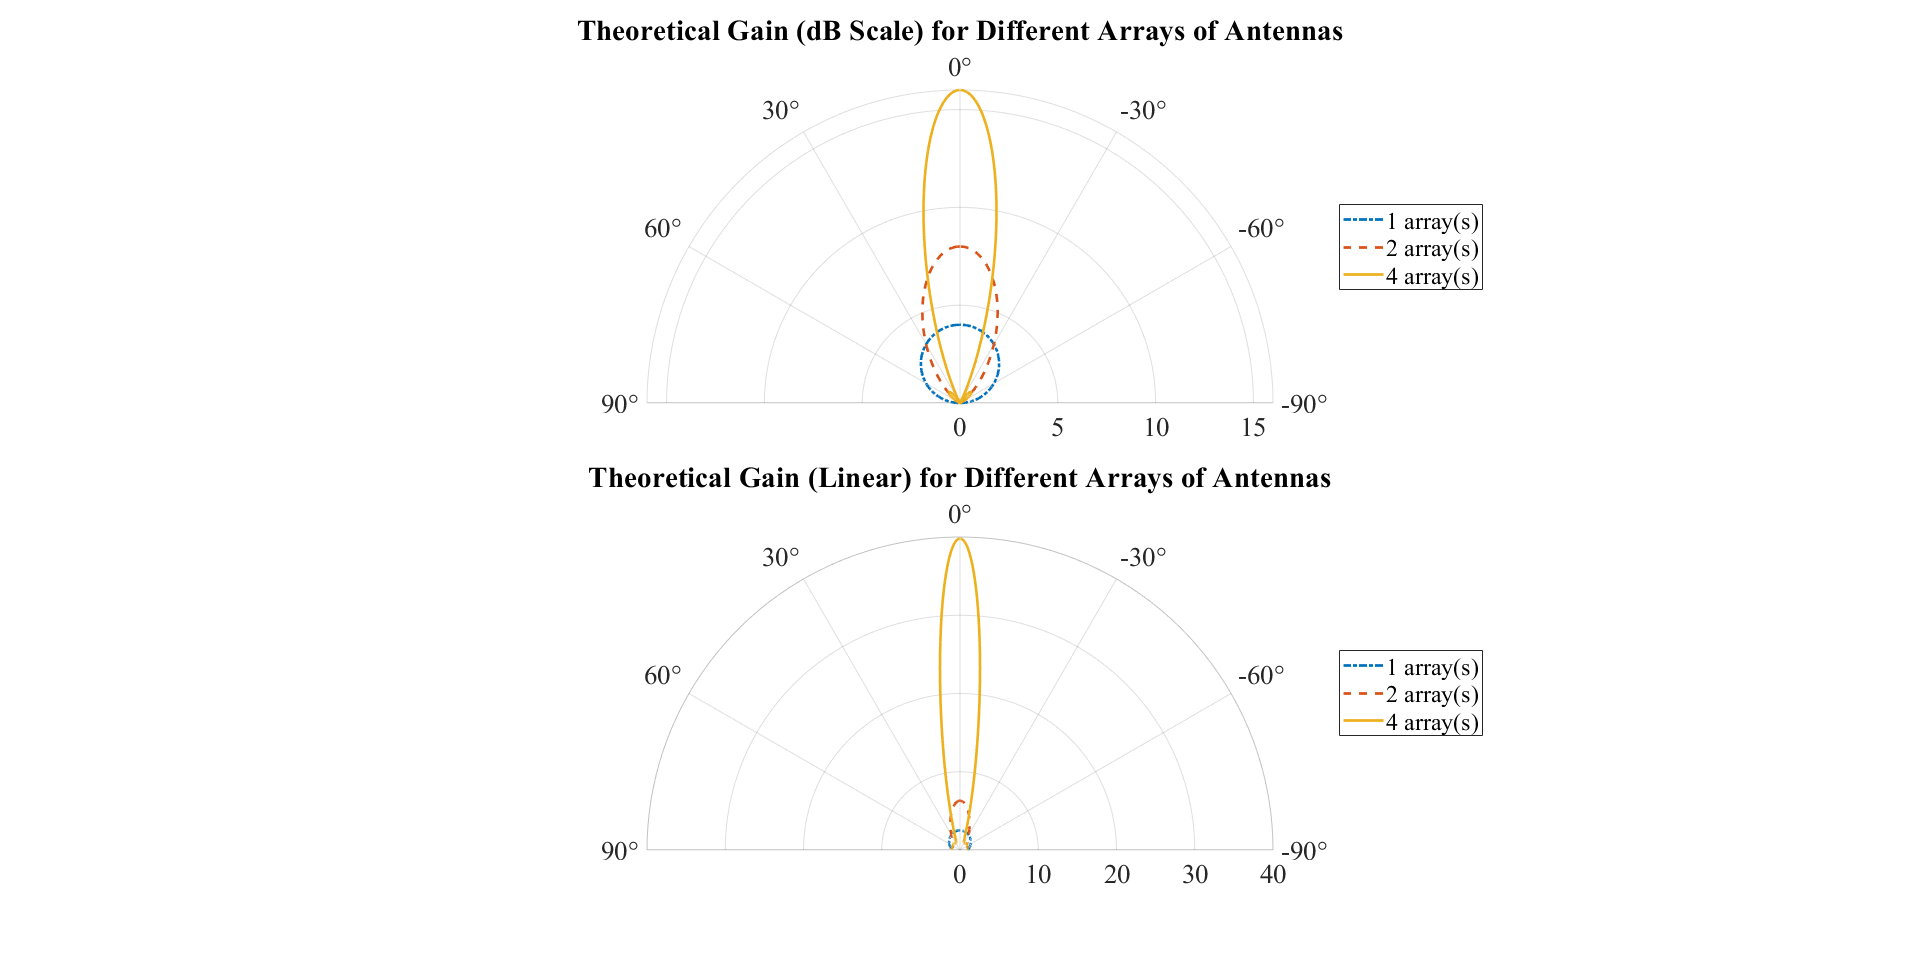
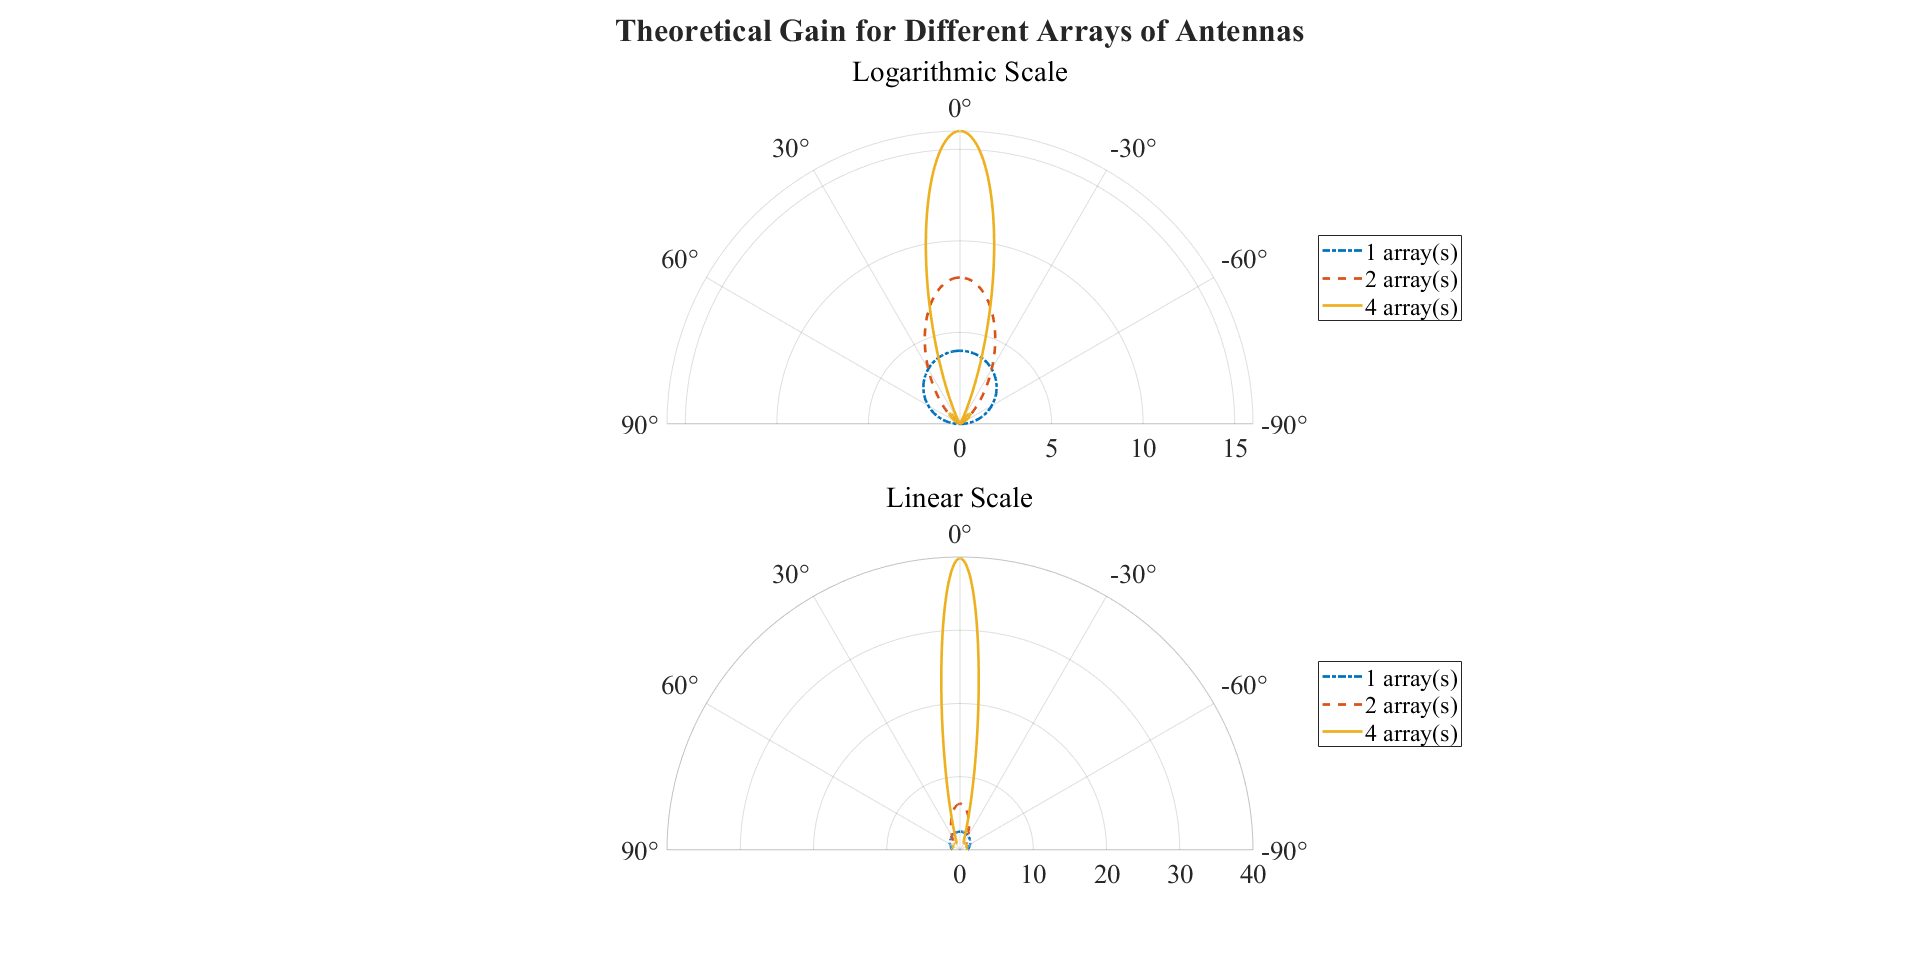
helper for beam pattern, powerof2 validator inputs arrays

diff --git a/beam_gain_pattern.m b/beam_gain_pattern.m
@@ -1,5 +1,5 @@
 function beam_gain_pattern()
-% beam_gain_pattern() plots the theoretical beam's gain pattern for 1, 2,
+% beam_gain_pattern() plots the theoretical beams' gain pattern for 1, 2,
 % and 4 antenna arrays.
 %
 % Reference:
@@ -10,7 +10,7 @@ close all;
 
 % Set plot parameters.
 LINEWIDTH = 2;
-LINESTYLE = ["-." "--" "-"];
+LINESTYLES = ["-." "--" "-"];
 FONTSIZE = 16;
 FONTSIZE_TITLE = FONTSIZE + 8;
 FONTSIZE_AXIS = FONTSIZE + 4;
@@ -19,7 +19,7 @@ FONTNAME = 'Times New Roman';
 % Set calculations parameters.
 NUM_ARRAYS = [1 2 4];
 SAMPLING = 0.1;
-PHI = [-90:SAMPLING:90];
+PHI = -90:SAMPLING:90;
 PHI = deg2rad(PHI);
 
 % Calculate gain.
@@ -33,49 +33,24 @@ for iter1=1:length(NUM_ARRAYS)
 end
 gains_linear = db2pow(gains);
 
-% Plot theoretical gain in dB scale.
+% Plot the results.
 figure(Visible='on');
 tiledlayout(2, 1);
-nexttile;
-polarplot(PHI, gains(1, :), LineWidth=LINEWIDTH, LineStyle=LINESTYLE(1));
-hold on;
-for iter=2:length(NUM_ARRAYS)
-    polarplot(PHI, gains(iter, :), LineWidth=LINEWIDTH, ...
-        LineStyle=LINESTYLE(iter));
-end
-hold off;
 
-% Style the plot.
-set(gca, FontSize=FONTSIZE, FontName=FONTNAME);
-thetatickformat('degrees');
-title('Theoretical Gain (dB Scale) for Different Arrays of Antennas', ...
-    FontSize=FONTSIZE_TITLE, FontName=FONTNAME);
-legend_str = '';
-for iter=1:length(NUM_ARRAYS)
-    legend_str = [legend_str; sprintf('%d array(s)', NUM_ARRAYS(iter))];
-end
-legend(legend_str, FontName=FONTNAME);
-set(gca, ThetaZeroLocation='top', Thetalim=[-90 90], ...
-    FontSize=FONTSIZE_AXIS, FontName=FONTNAME);
+% Plot theoretical gain in dB scale.
+nexttile;
+helper_beam_gain_pattern_plot(PHI, gains, NUM_ARRAYS, LINEWIDTH, ...
+    LINESTYLES, FONTSIZE, FONTNAME, FONTSIZE_TITLE, FONTSIZE_AXIS, ...
+    'Logarithmic Scale')
 
 % Plot theoretical gain in linear scale.
 nexttile;
-polarplot(PHI, gains_linear(1, :), LineWidth=LINEWIDTH, ...
-    LineStyle=LINESTYLE(1));
-hold on;
-for iter=2:length(NUM_ARRAYS)
-    polarplot(PHI, gains_linear(iter, :), LineWidth=LINEWIDTH, ...
-        LineStyle=LINESTYLE(iter));
-end
-hold off;
+helper_beam_gain_pattern_plot(PHI, gains_linear, NUM_ARRAYS, LINEWIDTH, ...
+    LINESTYLES, FONTSIZE, FONTNAME, FONTSIZE_TITLE, FONTSIZE_AXIS, ...
+    'Linear Scale')
 
-% Style the plot.
-set(gca, FontSize=FONTSIZE, FontName=FONTNAME);
-thetatickformat('degrees');
-title('Theoretical Gain (Linear) for Different Arrays of Antennas', ...
-    FontSize=FONTSIZE_TITLE, FontName=FONTNAME);
-legend(legend_str, FontName=FONTNAME);
-set(gca, ThetaZeroLocation='top', Thetalim=[-90 90], ...
-    FontSize=FONTSIZE_AXIS, FontName=FONTNAME);
+% Style the figure.
+sgtitle('Theoretical Gain for Different Arrays of Antennas', ...
+    FontSize=FONTSIZE_TITLE, FontName=FONTNAME, FontWeight='bold');
 
 end

diff --git a/helper_beam_gain_pattern_plot.m b/helper_beam_gain_pattern_plot.m
@@ -1,0 +1,59 @@
+function helper_beam_gain_pattern_plot(phis, gains, num_arrays, ...
+    linewidth, linestyles, fontsize, fontname, fontsize_title, ...
+    fontsize_axis, subplot_title)
+% helper_beam_gain_pattern_plot(phis, gains, num_arrays, linewidth,
+% linestyle, fontsize, fontname, fontsize_title, fontsize_axis) plots each
+% subplot for the beam_gain_pattern() function.
+%
+% The function receives the following input arguments.
+%   phis            an array of phi angle values
+%   gains           an array of gains that corresponds to each phi value
+%   num_arrays      the number of antenna arrays
+%   linewidth       the width of the line in the subplot
+%   linestyles      an array of styles for the lines in the subplot
+%   fontsize        the general fontsize used in the subplot
+%   fontname        the general fontname used in the subplot
+%   fontsize_title  the fontsize used in the subplot title
+%   fontsize_axis   the fontsize used in the subplot axis
+%   subplot_title   the title of the subplot
+%
+% Reference:
+% https://www.youtube.com/watch?v=UbA4IbFXTSU
+
+% Validate input arguments.
+arguments
+    phis double {mustBeInRange(phis, -360, 360)}
+    gains double
+    num_arrays int16 {mustBePowerOf2(num_arrays)}
+    linewidth (1, 1) int16 {mustBePositive(linewidth)}
+    linestyles string {mustBeMember(linestyles, ...
+        ["-", ":", "-.", "--", "none"])}
+    fontsize (1, 1) int16 {mustBePositive(fontsize)}
+    fontname (1, 1) string
+    fontsize_title (1, 1) int16 {mustBePositive(fontsize_title)}
+    fontsize_axis (1, 1) int16 {mustBePositive(fontsize_axis)}
+    subplot_title (1, 1) string
+end
+
+% Make the subplot.
+polarplot(phis, gains(1, :), LineWidth=linewidth, LineStyle=linestyles(1));
+hold on;
+for iter=2:length(num_arrays)
+    polarplot(phis, gains(iter, :), LineWidth=linewidth, ...
+        LineStyle=linestyles(iter));
+end
+hold off;
+
+% Style the subplot.
+set(gca, FontSize=fontsize, FontName=fontname);
+thetatickformat('degrees');
+title(subplot_title, FontSize=fontsize_title, FontName=fontname, ...
+    FontWeight='normal');
+legend_str = '';
+for iter=1:length(num_arrays)
+    legend_str = [legend_str; sprintf('%d array(s)', num_arrays(iter))];
+end
+legend(legend_str, FontName=fontname);
+set(gca, ThetaZeroLocation='top', Thetalim=[-90 90], ...
+    FontSize=fontsize_axis, FontName=fontname);
+end

diff --git a/mustBePowerOf2.m b/mustBePowerOf2.m
@@ -1,15 +1,19 @@
-function mustBePowerOf2(number)
+function mustBePowerOf2(numbers)
 % mustBePowerOf2(number) validates if a number is a power of 2.
 %
 % The function receives the following input arguments.
-%   number      the number to check
+%   number      array of numbers to check
 %
-% The function throws an error if the number is not a power of 2.
+% The function throws an error if any number of the array is not a power of
+% 2.
 
-% Check if input is power of 2.
-number = double(number);
-if number < 2 || floor(log2(number)) ~= log2(number)
-    error('Value must be a positive power of 2.');
+% Check if all inputs is power of 2.
+numbers = double(numbers);
+for iter=1:length(numbers) 
+    if numbers(iter) < 1 || ...
+            floor(log2(numbers(iter))) ~= log2(numbers(iter))
+        error('Value must be a positive power of 2.');
+    end
 end
 
 end
